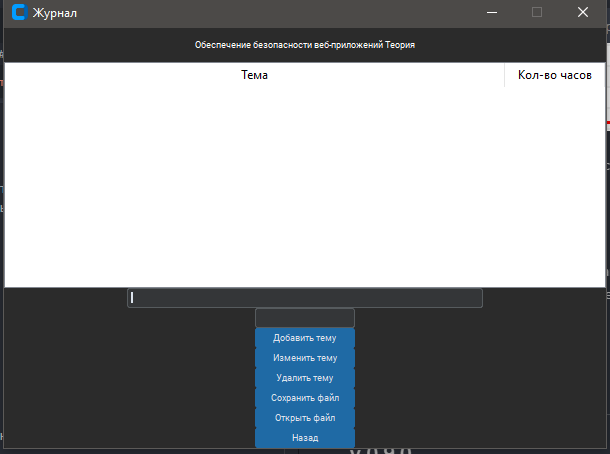
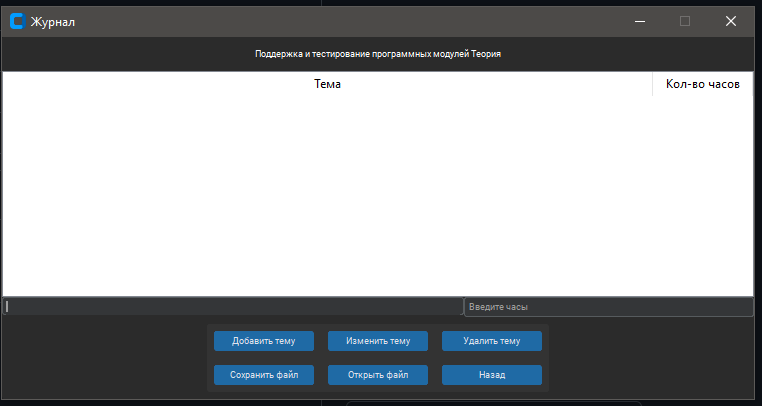
up fix & instructions 3

Changed region(s): [[0.0, 0.0, 1.0, 1.0]]

diff --git a/ReJ.py b/ReJ.py
@@ -1,6 +1,11 @@
 import random
 
 import requests
+
+from requests.packages.urllib3.exceptions import InsecureRequestWarning
+
+requests.packages.urllib3.disable_warnings(InsecureRequestWarning)
+
 import re
 from datetime import datetime
 
@@ -90,6 +95,7 @@ class AvtoJ:
         date_from = date_f
         if date_f == '':
             mon = int(datetime.today().strftime('%m'))
+            # date_from = '01.09.2023'# + datetime.today().strftime('%Y')
             if 13 > mon > 8:
                 date_from = '01.09.' + datetime.today().strftime('%Y')
             else:
@@ -238,6 +244,7 @@ class AvtoJ:
     def close_open_lesson(self, id_group, subject_id, student_id, date_from='', prac='', open=False):
         '''Закрытие/открытие занятий'''
         date_from = self.date_patch(date_from)
+        print(date_from)
         url = 4 if open else 3
         nums = re.findall(r'\d+', subject_id)
         for lesson in self.id_lesson_row(id_group, subject_id, prac=prac):
@@ -259,7 +266,9 @@ class AvtoJ:
                 'subject_id': nums[0],
                 'view_lessons': 'false',
             }
-            self.session.post(self.url[url], headers=self.head(), data=data)
+            s = self.session.post(self.url[url], headers=self.head(), data=data)
+            print(269,data)
+            print(270,s.json())
         return len(self.id_lesson_row(id_group, subject_id, prac=prac))
 
     def setting_turnout(self, id_group, subject_id, student_id, lesson, x, date_from='', prac=''):
@@ -373,11 +382,14 @@ class AvtoJ:
         return themes
 
     def save_themes(self, disc, prac=''):
-        k = len(self.id_lesson_row(disc['id_group'], disc['subject_id'], date_from='01.09.2022', date_whis='31.12.2022',
-                                   prac=prac))
-        for less, theme in zip(self.id_lesson_row(disc['id_group'], disc['subject_id'], prac=prac),
-                               self.open_file_themes(disc, prac)[k:]):
-            self.uploading_topics(disc['id_group'], disc['subject_id'], less, theme, prac=prac)
+        
+        k = len(self.id_lesson_row(disc['id_group'], disc['subject_id'], date_from='01.09.2023', date_whis=datetime.today().strftime('%d.%m.%Y'),prac=prac))
+        # sss = zip(self.id_lesson_row(disc['id_group'], disc['subject_id'], prac=prac),self.open_file_themes(disc, prac)[k:])
+        sss = zip(self.id_lesson_row(disc['id_group'], disc['subject_id'], prac=prac),self.open_file_themes(disc, prac))
+        for less, theme in sss:
+            s = self.uploading_topics(disc['id_group'], disc['subject_id'], less, theme, prac=prac)
+            print(less, theme)
+            print(s)
 
     def uploading_topics(self, id_group, subject_id, lesson, theme, date_from='', prac=''):
         """Ввод темы в журнал"""

diff --git a/README.md b/README.md
@@ -10,7 +10,7 @@
 
 ## Установка для разработчиков
 
-1. Скачиваем и устанавливаем [Python 3.10](https://www.python.org/downloads/release/python-3109/) (лучше) или 3.9.
+1. Скачиваем и устанавливаем [Python 3.10](https://www.python.org/downloads/release/python-3109/) (лучше) или ниже.
 2. Скачать проект любым способом. Перейдите в папку проекта.
 3. Откройте командную строку (терминал) в папке проекта.
 4. Введите следующую команду для установки необходимых зависимостей: `pip install -r requirements.txt`.
@@ -53,7 +53,7 @@
 
 ### 4. Кнопка найти
 
-После ввода ключевых слов нажмите эту кнопку или клавишу Enter, чтобы выполнить поиск.
+После ввода ключевых слов нажмите **эту кнопку** или клавишу Enter, чтобы выполнить поиск.
 
 ### 5. Открыть занятие и Закрыть занятие
 
@@ -85,9 +85,7 @@
 
 Среди оценок можно отметить явку, выбрав первую явку, остальные заполнятся автоматически. Это удобно, когда на одного человека приходится несколько пар.Очень удобно когда стоит 6 пар и на каждого человека не надо кликать по 6 раз.
 
-Также есть кнопка `Создать поле для оценок`. Для одной пары можно создать только одну оценку, даже если у вас несколько пар. Обратите внимание на это ограничение.
-
-Ещё ниже еть кнопка `Создать поле для оценок`.
+Также есть кнопка `Создать поле для оценок`. Ограничения сняты на колличество полей для оценки, будьте аккуратны.
 
 ![](img/img8.png)
 
@@ -105,7 +103,18 @@
 
 ![](img/img10.png)
 
-ПОТОМ НАПИШУ
+У вас есть несколько вариантов, представленных на скиншоте.
+
+Для **добавления темы** вводим тему и колличество часов.
+
+После вы можете нажать кнопку **добавить тему**.
+
+По окончанию добавления тем, нажимаем сохранить файл.
+После этой процедуры, у вас будет работать **выставление тем в журнал**.
+
+Так же присутсвует **удаление, изменение**.
+
+Кто хочет открыть файл, будьте аккуратны, здесь другая кодировка.
 
 ### 10. Заполнить темы
 
@@ -117,12 +126,13 @@
 
 Если вы встретили ошибки, мы с радостью их исправим.
 
-Не бойтесь создавать `Issues`.
+Не бойтесь создавать `Issues`\ проблеммы.
 
 ![](img/img11.png)
 ![](img/img12.png)
 
 ---
+
 ## v 0.9.3
 
 - Перемещение по оценкам снова доступно
